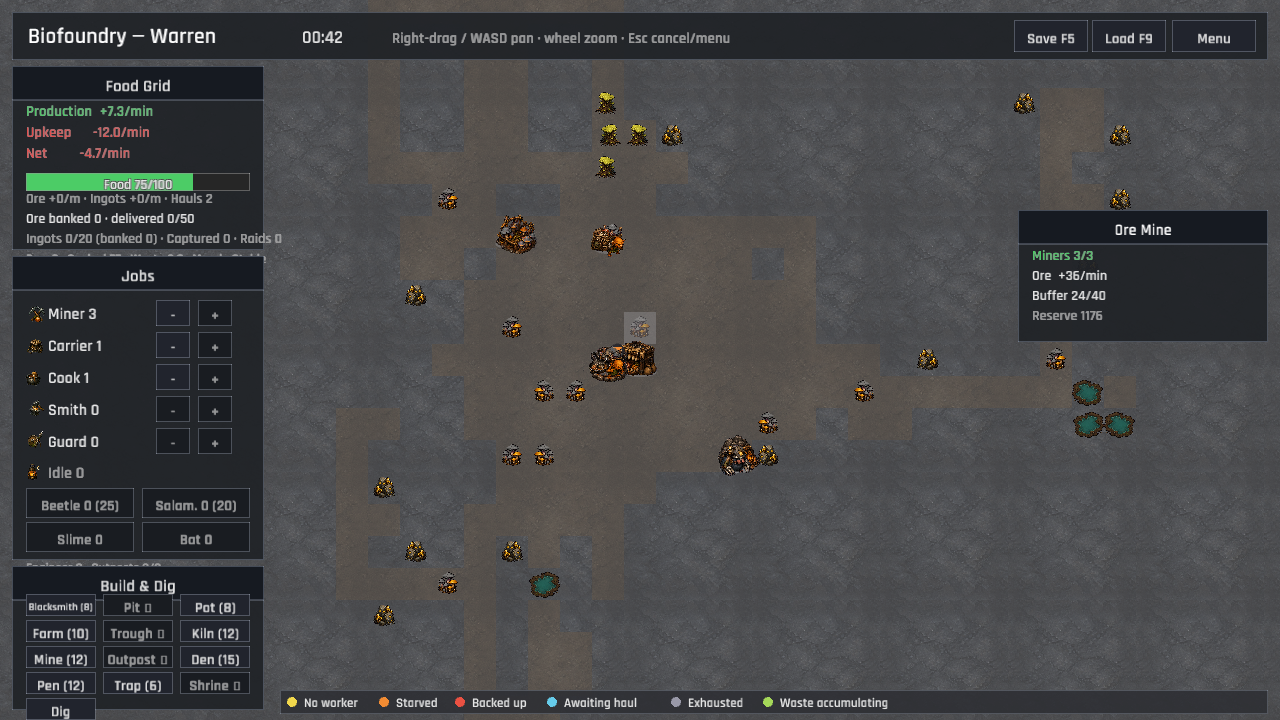
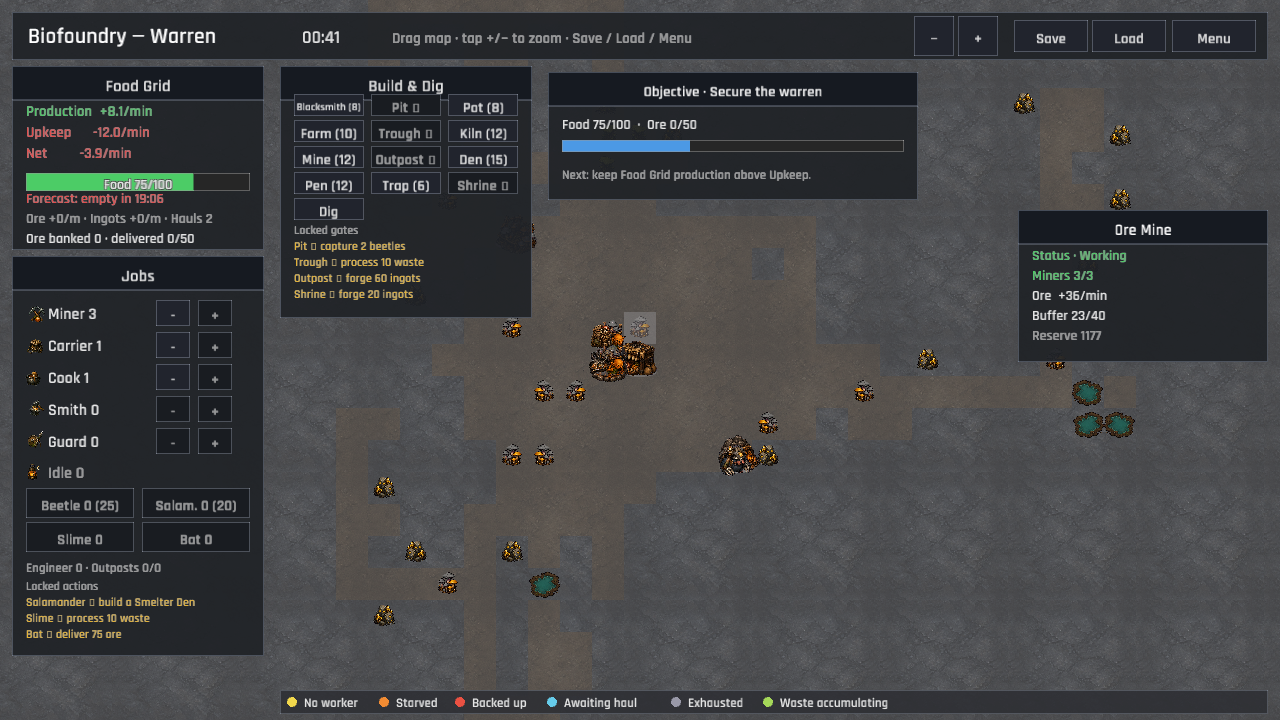
Every chamber now tells the keeper whether it is working or stalled (P3 standardized workstation status)
Inspection cards previously mixed counters and kind-specific prose, so a player had to infer whether an empty node lacked labor, input, a route, or a protected reserve. Every selected building now starts with one consistent status line, including working, no worker, starved, backed up, exhausted, paused, and route states.

The legibility rules now recognize cooks travelling to or working at the Cook Pot, and the inspector gives the Worm Shrine and outposts their explicit reserve and route wording. Panel heights and the Mine, Blacksmith, and Worm captures were refreshed so the status line does not crowd existing controls.

Verified with cargo fmt -- --check, cargo test --all-targets (71 unit tests plus integration checks), cargo clippy --all-targets --all-features -- -D warnings, and publish.ps1 with no parameters.

diff --git a/src/ui/hud/inspect.rs b/src/ui/hud/inspect.rs
@@ -5,6 +5,7 @@ use crate::data::GameData;
 use crate::state::creatures::{Good, Task};
 use crate::state::GameSession;
 use crate::ui::hud::widgets::{hud_button, panel_style};
+use crate::ui::legibility::BuildingStatus;
 use crate::ui::{UiAction, LOGICAL_WIDTH};
 use macroquad::prelude::*;
 use macroquad_toolkit::grid::TilePos;
@@ -28,10 +29,10 @@ pub(super) fn draw_inspect_panel(
     // The blacksmith panel carries the production-order queue and craft
     // buttons, and the breeding pit its breed buttons — both taller.
     let height = match building.kind.as_str() {
-        "blacksmith" => 150.0 + data.equipment.len() as f32 * 26.0,
-        "breeding_pit" => 210.0,
-        "worm_shrine" | "outpost" => 220.0,
-        _ => 132.0,
+        "blacksmith" => 170.0 + data.equipment.len() as f32 * 26.0,
+        "breeding_pit" => 230.0,
+        "worm_shrine" | "outpost" => 240.0,
+        _ => 152.0,
     };
     let panel = Rect::new(LOGICAL_WIDTH - 262.0, 210.0, 250.0, height);
     draw_surface_with_title(
@@ -47,6 +48,9 @@ pub(super) fn draw_inspect_panel(
         draw_ui_text_ex(text, x, *y, TextStyle::new(14.0, color).params());
         *y += 20.0;
     };
+
+    let (status, status_color) = inspect_status(session, data, building);
+    line(&format!("Status · {status}"), status_color, &mut y);
 
     match building.kind.as_str() {
         "mine" => {
@@ -363,4 +367,41 @@ pub(super) fn draw_inspect_panel(
     }
 
     Some(panel)
+}
+
+/// Give every inspected building the same first-read answer: is it working,
+/// stalled, paused, or on a route that needs attention?
+fn inspect_status(
+    session: &GameSession,
+    data: &GameData,
+    building: &crate::state::structures::Building,
+) -> (&'static str, Color) {
+    if building.kind == "worm_shrine" {
+        if session.worm_awake {
+            return ("Awakened", dark::POSITIVE);
+        }
+        if session.worm_feeding_paused {
+            return ("Paused by reserve policy", dark::WARNING);
+        }
+    }
+    if building.kind == "outpost" {
+        if let Some(outpost) = session.outposts.iter().find(|o| o.pos == building.pos) {
+            if outpost.last_failure.is_some() {
+                return ("Route failed", dark::NEGATIVE);
+            }
+            if !outpost.active {
+                return ("Route inactive", dark::WARNING);
+            }
+        }
+    }
+    match crate::ui::legibility::building_status(session, data, building) {
+        Some(status) => (
+            status.label(),
+            match status {
+                BuildingStatus::Exhausted | BuildingStatus::OutputFull => dark::NEGATIVE,
+                _ => dark::WARNING,
+            },
+        ),
+        None => ("Working", dark::POSITIVE),
+    }
 }

diff --git a/src/ui/legibility/tests.rs b/src/ui/legibility/tests.rs
@@ -69,6 +69,26 @@ fn starved_blacksmith_and_kiln_read_starved() {
 }
 
 #[test]
+fn cook_pot_reads_missing_cook_then_missing_mushrooms() {
+    let (data, mut session) = boot();
+    let pot = session.buildings_of("cook_pot").next().unwrap().pos;
+    session.creatures.clear();
+    let building = session.building_at(pot).unwrap();
+    assert_eq!(
+        building_status(&session, &data, building),
+        Some(BuildingStatus::NoWorker)
+    );
+
+    session.spawn_creature(&data, "goblin", Job::Cook);
+    session.creatures.last_mut().unwrap().task = Task::GoCook(pot);
+    let building = session.building_at(pot).unwrap();
+    assert_eq!(
+        building_status(&session, &data, building),
+        Some(BuildingStatus::InputStarved)
+    );
+}
+
+#[test]
 fn trough_waste_and_inactive_outpost_are_visible_states() {
     let data = GameData::load().unwrap();
     let mut session = GameSession::new(&data, 44);

diff --git a/src/ui/legibility.rs b/src/ui/legibility.rs
@@ -76,6 +76,7 @@ fn staffed_at(session: &GameSession, pos: TilePos, job: Job) -> bool {
                     *shop == pos
                 }
                 Task::Smelting { den, .. } | Task::GoSmelt(den) => *den == pos,
+                Task::Cooking { pot, .. } | Task::GoCook(pot) => *pot == pos,
                 // A creature idling on the tile also counts as manning it.
                 _ => c.tile() == pos,
             }
@@ -133,6 +134,9 @@ pub fn building_status(
             None
         }
         "cook_pot" => {
+            if !staffed_at(session, pos, Job::Cook) {
+                return Some(BuildingStatus::NoWorker);
+            }
             if building.stock(Good::Mushroom)
                 < data.balance.cook_batch_mushrooms as f32 * data.balance.raw_recipe_multiplier
             {

diff --git a/docs/phase-one/PRODUCTION_PLAN.md b/docs/phase-one/PRODUCTION_PLAN.md
@@ -66,9 +66,9 @@ goal at each facilitator checkpoint without being told.
 response.
 
 - [x] Prioritize cooked food trend, reserve, and time-to-empty in the main HUD.
-- [ ] Standardize workstation status across Mine, Cook Pot, Blacksmith, Kiln,
+- [x] Standardize workstation status across Mine, Cook Pot, Blacksmith, Kiln,
   Smelter, and Worm Shrine.
-- [ ] Surface missing labor, missing input, output blockage, invalid route, and
+- [x] Surface missing labor, missing input, output blockage, invalid route, and
   reserve-policy pauses in plain language.
 - [ ] Show before/after throughput when the Iron Pickaxe is equipped.
 - [x] Forecast famine and raid pressure early enough for a meaningful response.
